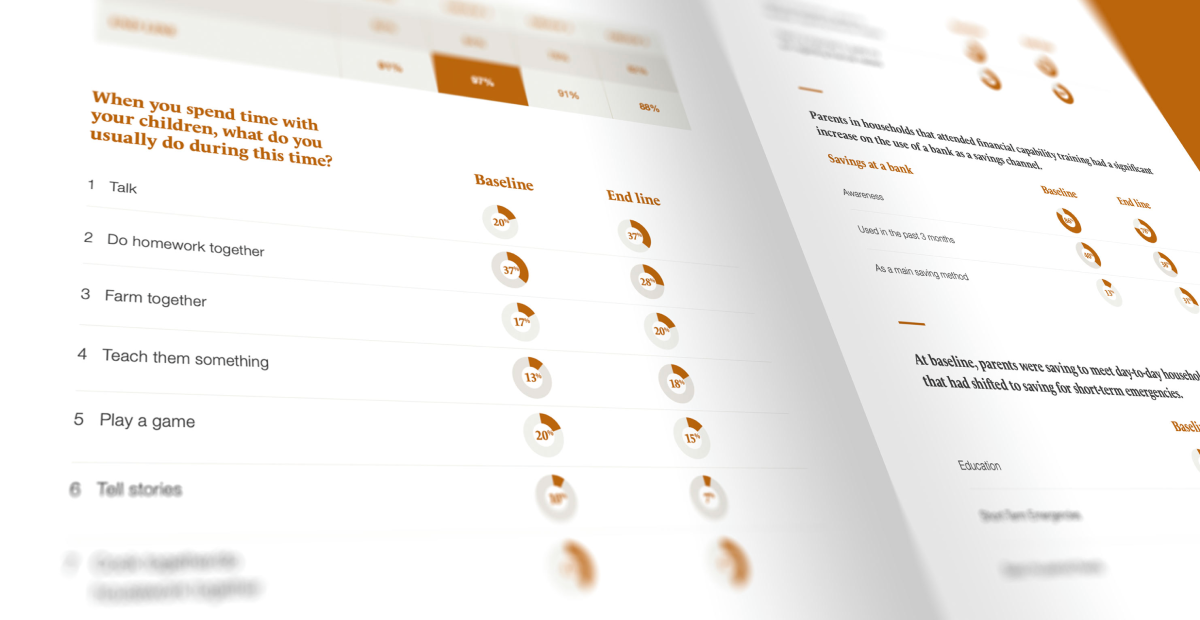
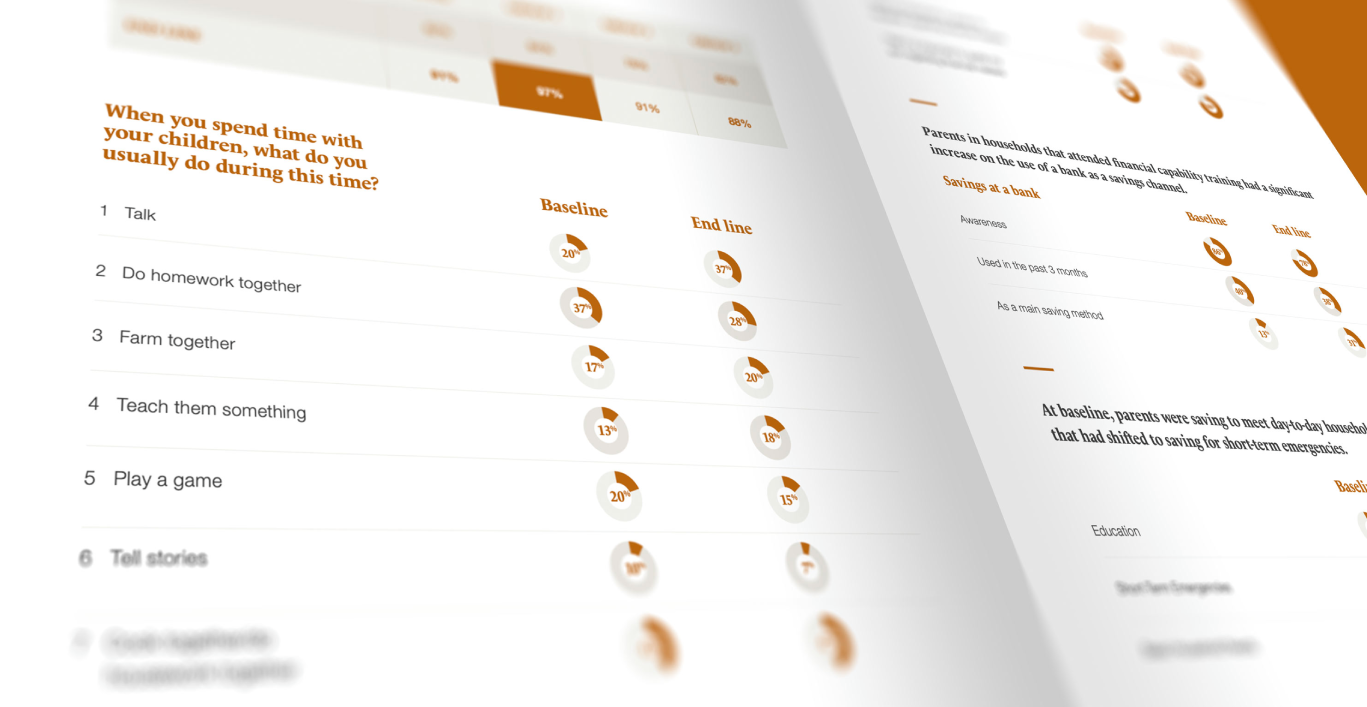
updated women's world banking with higher res assets and working on layout

diff --git a/html/www.html b/html/www.html
@@ -1,0 +1,119 @@
+<!DOCTYPE html>
+<html lang="en">
+	<head>
+    	<meta charset="utf-8">
+    	<meta name="description" content="This is where your description goes">
+    	<meta name="keywords" content="one, two, three">
+
+		<title>Women's World Banking</title>
+
+		<!-- external CSS link -->
+		<link rel="stylesheet" href="/css/reset.css">
+		<!-- <link rel="stylesheet" href="/css/style.css"> -->
+		<link rel="stylesheet" href="/css/www.css">
+	</head>
+	<body>
+		
+			
+			<header>
+				<nav>
+					<ul>
+						 
+					</ul>
+				</nav>
+			</header>
+			<main class="container">
+
+
+
+				<section class="images-section-wrapper">
+					<div class="intro">
+						<img class= "logo" src="/assets/Women's World Banking/webp/1WWB.webp" alt="">
+					</div>
+
+					<div class="www2 slide">
+						<img src="/assets/Women's World Banking/webp/2WWB_WP.webp" alt="">
+					</div>
+
+					<div class="www3 slide">
+						<img src="/assets/Women's World Banking/webp/3WWB_WP.webp" alt="">
+					</div>
+
+					<div class="www4 slide">
+						<img src="/assets/Women's World Banking/webp/4_WWB_Open-A4-Magazine.webp" alt="">
+					</div>
+
+					<div class="www5 slide">
+						<img src="/assets/Women's World Banking/webp/5_FSDA_CS_chart_2.webp" alt="">
+					</div>
+
+					<div class="www6 slide">
+						<img src="/assets/Women's World Banking/webp/6_FSDA_CS_chart_1.webp" alt="">
+					</div>
+
+					<div class="www7 slide">
+						<img src="/assets/Women's World Banking/webp/7_WWB_Open-A4-Magazine-2.webp" alt="">
+					</div>
+
+					<div class="www8 slide">
+						<img src="/assets/Women's World Banking/webp/8_FSDA_CS_chart_3.webp" alt="">
+					</div>
+
+					<div class="www9 slide">
+						<img src="/assets/Women's World Banking/webp/9_WWB_Gates-Case-Study-chart_1.webp" alt="">
+					</div>
+
+					<div class="www10 slide">
+						<img src="/assets/Women's World Banking/webp/10_WWB_Gates-Case-Study-chart_2.webp" alt="">
+					</div>
+
+					<div class="www11 slide">
+						<img src="/assets/Women's World Banking/webp/11_WWB_GAM.webp" alt="">
+					</div>
+
+					<div class="www12 slide">
+						<img src="/assets/Women's World Banking/webp/12_WWB_GAM_a.webp" alt="">
+					</div>
+
+					<div class="www12-2 slide">
+						<img src="/assets/Women's World Banking/webp/12_WWB_GAM_b.webp" alt="">
+					</div>
+
+
+					<!-- 6 image matrix -->
+				<section class="bottom-graphics">
+
+					<div class="graphic right">
+						<img src="/assets/Women's World Banking/webp/13_WWB_GAM_a.webp" alt="">
+					</div>
+
+					<div class="graphic left">
+						<img src="/assets/Women's World Banking/webp/13_WWB_GAM_b.webp" alt="">
+					</div>
+
+					<div class="graphic right">
+						<img src="/assets/Women's World Banking/webp/13_WWB_GAM_c.webp" alt="">
+					</div>
+
+					<div class="graphic left">
+						<img src="/assets/Women's World Banking/webp/13_WWB_GAM_d.webp" alt="">
+					</div>
+
+					<div class="graphic right">
+						<img src="/assets/Women's World Banking/webp/13_WWB_GAM_e.webp" alt="">
+					</div>
+
+					<div class="graphic left">
+						<img src="/assets/Women's World Banking/webp/13_WWB_GAM_f.webp" alt="">
+					</div>
+				</section>
+
+			
+				</section>
+				
+
+			</main>
+		
+		<script type="text/javascript" src="js/main.js"></script>
+	</body>
+</html>

diff --git a/css/www.css b/css/www.css
@@ -1,0 +1,138 @@
+/* ===================== */
+/*The Perfect AI Assistant*/
+/* ===================== */
+/* Box Model Hack */
+* {
+  box-sizing: border-box;
+}
+
+:root {
+  /* section gap controls the gap below each major section. Increase adds more space */
+  --section-gap: 5rem;
+
+  /* spacing between graphic elements  */
+  --graphic-gap: -.5rem;
+
+  /* remove the gap between divs  */
+  --slide-gap: -.25rem;
+
+
+
+
+  --max-width: 1200px;
+  --gutter-min: 2rem;
+  --gutter-max: 5rem;
+ 
+
+  /* p */
+  --fs-2: 1rem;
+  /* h1 */
+  --fs-8: 2.027rem;
+   /* h2 */
+  --fs-7: 1.802rem;
+  /* h3 */
+  --fs-6: 1.602rem;
+  /* h4 */
+  --fs-5: 1.424rem;
+  /* h5 */
+  --fs-4: 1.266rem;
+  /* h6 */
+  --fs-3: 1rem;
+  /* captioning */
+  --fs-1: .9rem;
+}
+
+html{
+  /* font-size: 18px; */
+  background-color: #FFF;
+}
+body {
+  font-family: Helvetica, sans-serif;
+  
+}
+
+.site-header{
+  width: 100vw;
+  margin-left: 50%;
+  transform: translateX(-50%);
+}
+
+
+.container {
+  max-width: var(--max-width);
+  width: 100%;
+  margin: 0 auto;
+  padding: 0 clamp(
+    var(--gutter-min),
+    5vw,
+    var(--gutter-max)
+  );
+  
+}
+
+.container img{
+  width: 100%;
+  height: auto;
+  display: block;
+
+}
+
+.ai1 img {
+  border-top-left-radius: 50px;
+  border-top-right-radius: 50px;
+  filter: drop-shadow(-1px -1px 3.5rem #FFF );
+  position: relative;
+  z-index: 10;
+}
+
+.ai2 img{
+  position:relative;
+  z-index: 20;
+}
+
+
+.bottom-graphics {
+  display: flex;
+  flex-direction: column;
+  gap: var(--graphic-gap)
+}
+.graphic{
+  width: 100%;
+  display: flex;
+  /* justify-content: center; */
+}
+
+.graphic img{
+  max-width: 400px;
+  width: 100%;
+  height: auto;
+}
+
+.graphic.left{
+  justify-content: flex-start;
+}
+
+.graphic.right{
+  justify-content: flex-end;
+}
+
+
+@media (max-width: 1300px){
+  :root{
+    --gutter-min: 1rem;
+    --gutter-max: 2.5rem;
+  }
+}
+@media (max-width: 1250px){
+  :root{
+    --gutter-min: .5rem;
+    --gutter-max: 1.25rem;
+  }
+}
+
+@media (max-width: 1200px){
+  :root{
+    --gutter-min: 0rem;
+    --gutter-max: 0rem;
+  }
+}

diff --git a/index.html b/index.html
@@ -226,7 +226,7 @@
 					<!-- project Women's World Banking -->
 					<div class="project-div">
 						<!-- image -->
-						<a href=""><div class="project-img"><img src="/assets/Women's World Banking/png/1WWB.jpg" alt=""></div></a>
+						<a href="/html/www.html"><div class="project-img"><img src="/assets/Women's World Banking/png/1WWB.jpg" alt=""></div></a>
 
 						<!-- text -->
 						<div class="project-text">

diff --git a/html/whirlpool.html b/html/whirlpool.html
@@ -5,7 +5,7 @@
     	<meta name="description" content="This is where your description goes">
     	<meta name="keywords" content="one, two, three">
 
-		<title>The Perfect AI Assistant</title>
+		<title>Whirlpool</title>
 
 		<!-- external CSS link -->
 		<link rel="stylesheet" href="/css/reset.css">
